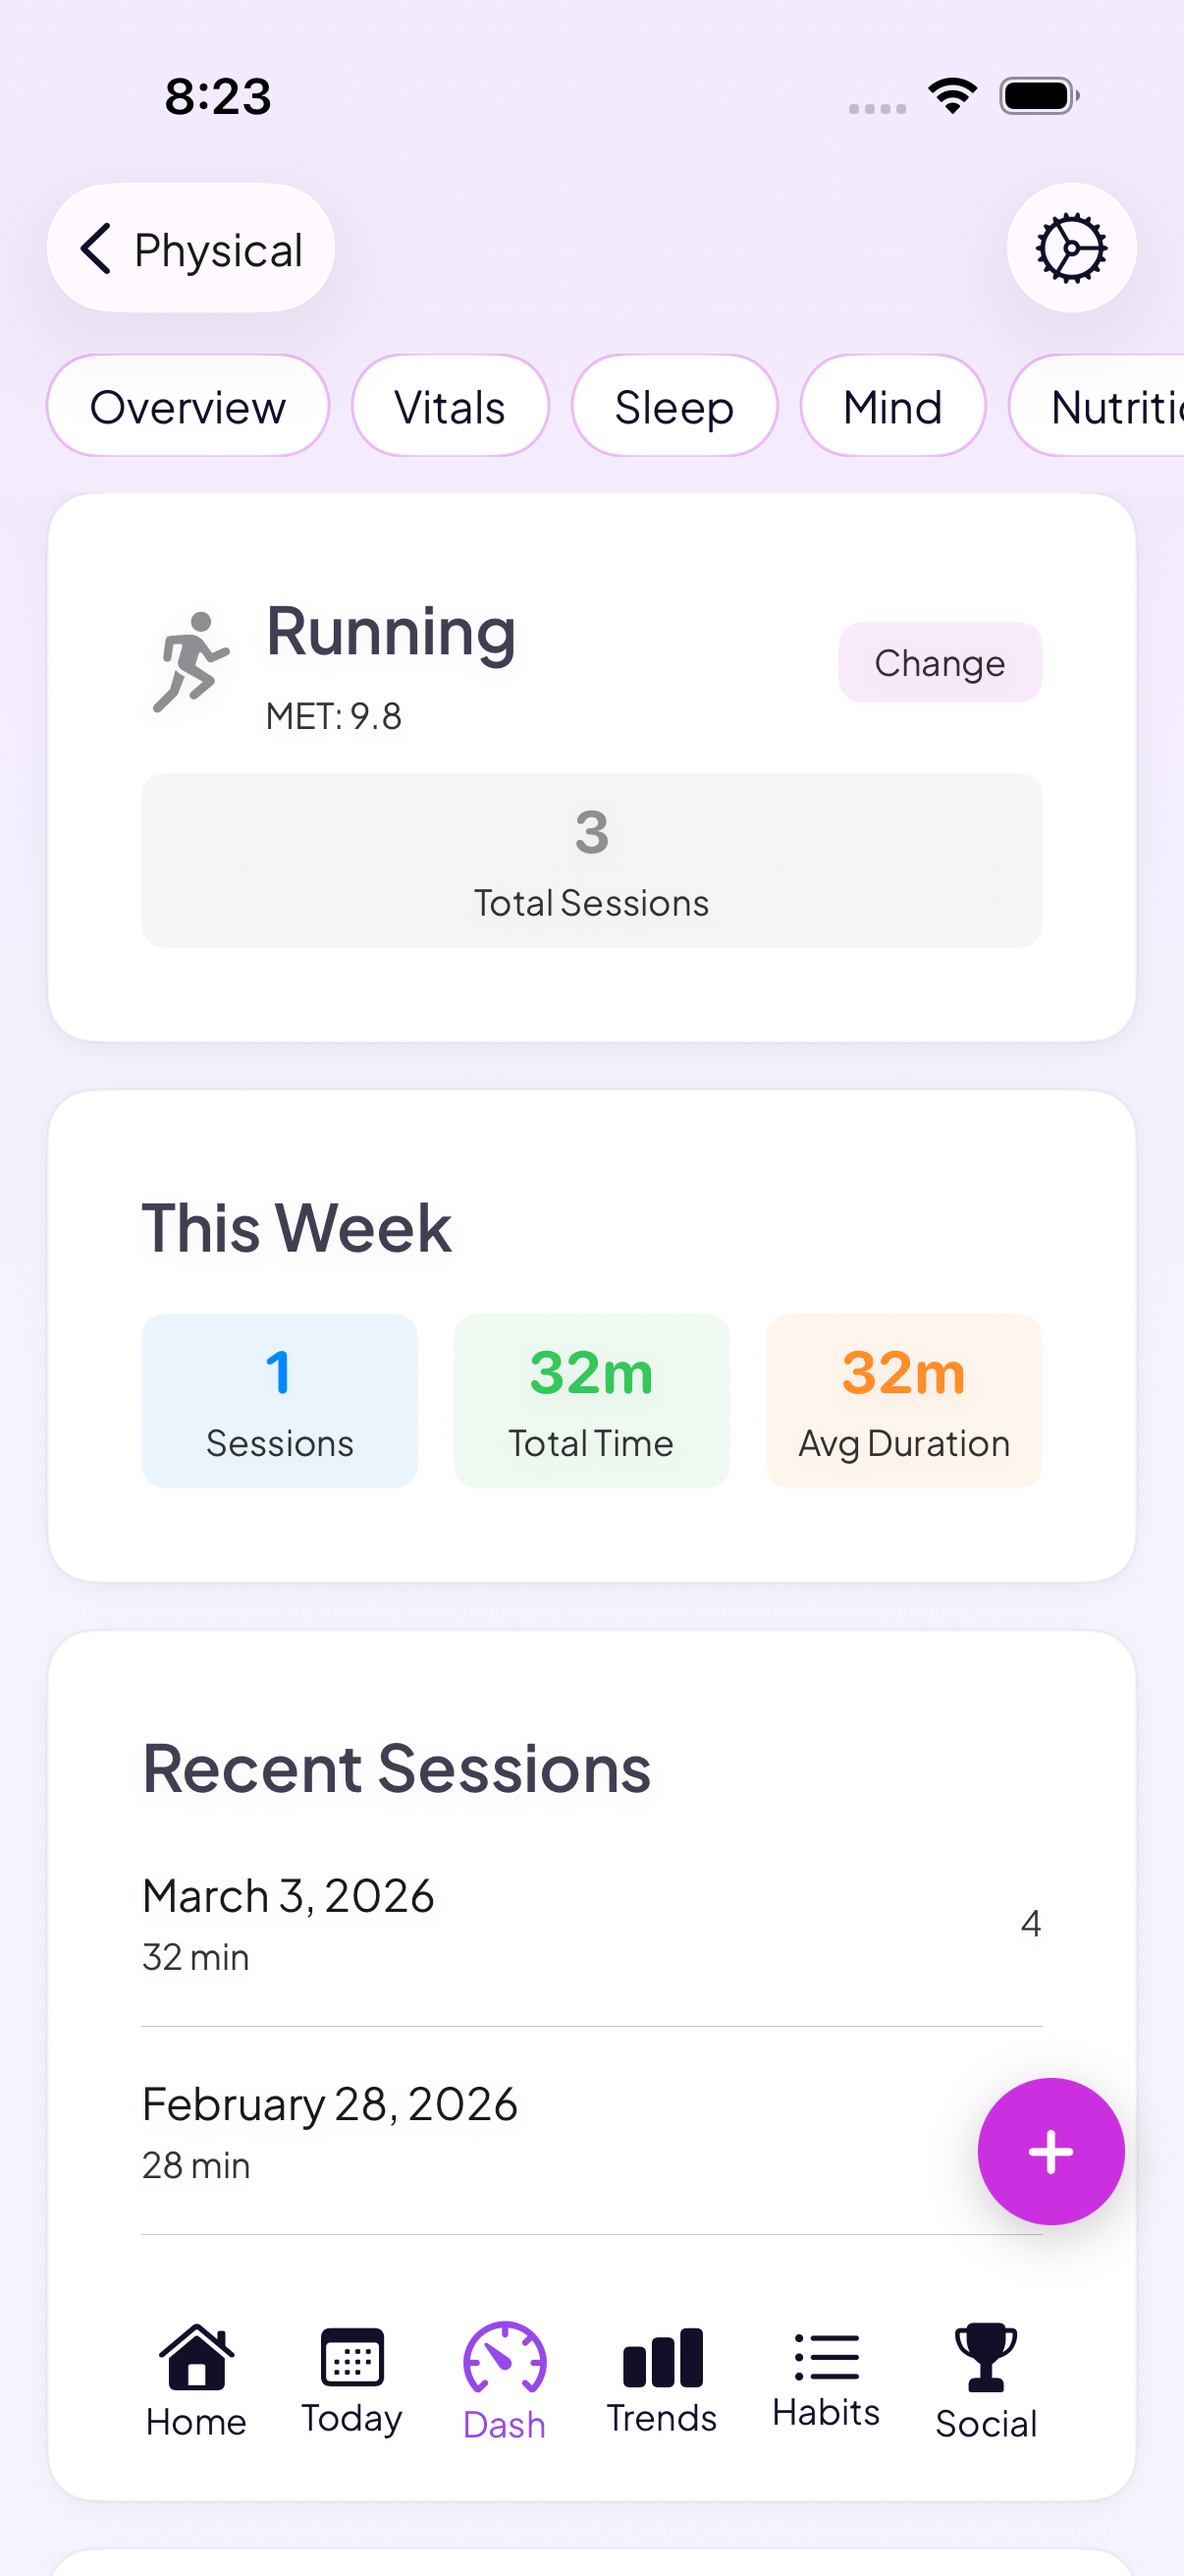
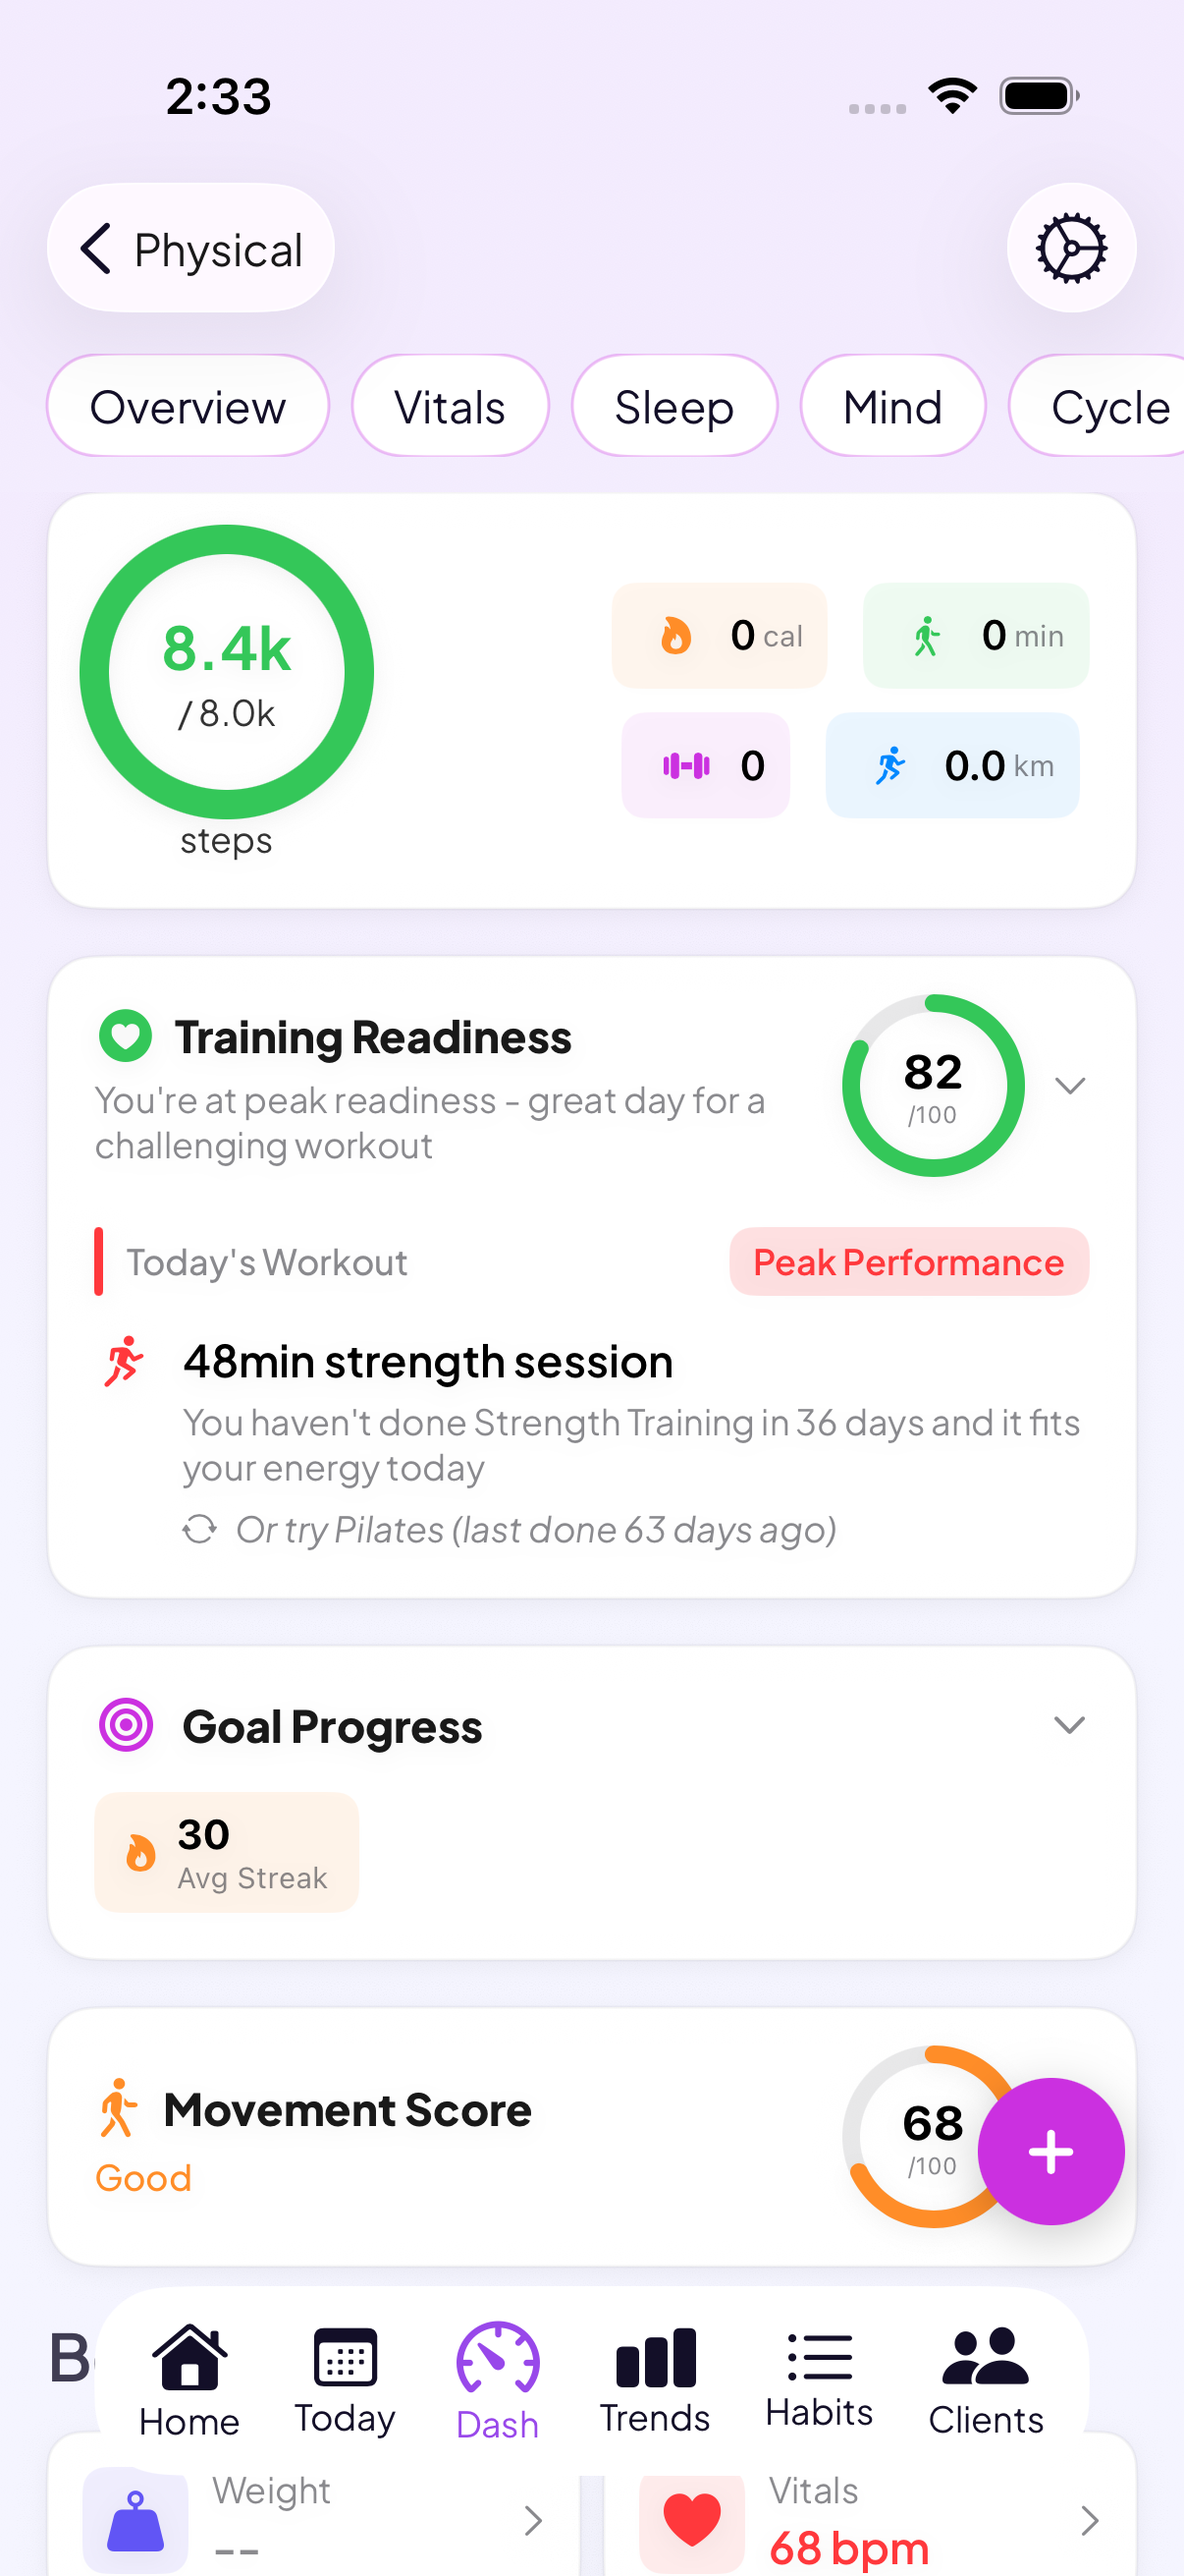
feat: refresh all app screenshots and add IVF persona card
Replace 16 screenshots with latest app UI featuring new nav bar,
populated data, and improved scores. Add new IVF & Fertility
Treatments persona card. Update alt text to match new content.

Key improvements:
- Overview: score 81 "Good progress" (was all zeros)
- Fitness: Training Readiness 82, Movement Score (was basic running view)
- Mind: populated mood tracking + journal (was all zeros)
- Today: fertile window badges, no notification banner
- Insights: "Whole Health improved by 6 points!" messaging
- New IVF persona with stage stepper (Prep→Stim→Retrieval→Transfer)

diff --git a/index.html b/index.html
@@ -102,7 +102,8 @@
         "https://www.go-go-gaia.com/images/app-overview.png",
         "https://www.go-go-gaia.com/images/app-fertility.png",
         "https://www.go-go-gaia.com/images/app-pcos.png",
-        "https://www.go-go-gaia.com/images/app-pregnancy.png"
+        "https://www.go-go-gaia.com/images/app-pregnancy.png",
+        "https://www.go-go-gaia.com/images/app-ivf-persona.png"
       ],
       "featureList": [
         "Easy, Flexible Logging",
@@ -393,8 +394,8 @@
                     <!-- Sticky phone on the left -->
                     <div class="scroll-story-phone">
                         <div class="phone-frame">
-                            <img src="images/app-today.png" class="phone-screen active" data-step="1" alt="Track your health with daily dashboard">
-                            <img src="images/app-cycle.png" class="phone-screen" data-step="2" alt="Discover cycle patterns and insights">
+                            <img src="images/app-today.png" class="phone-screen active" data-step="1" alt="Today view showing cycle phase, fertile window, health scores, and AI-powered predictions">
+                            <img src="images/app-cycle.png" class="phone-screen" data-step="2" alt="Cycle tracking with follicular phase details and ovulation countdown">
                             <img src="images/app-habits.png" class="phone-screen" data-step="3" alt="Habits dashboard showing completed daily habits, to-dos, and training programs">
                             <img src="images/app-social.png" class="phone-screen" data-step="4" alt="Social page with partner sharing, friends, and health professionals">
                         </div>
@@ -494,7 +495,7 @@
                     <div class="personas-scroll-track">
                         <div class="persona-card">
                             <div class="persona-card-thumb">
-                                <img src="images/app-cycle-persona.png" alt="Cycle tracking dashboard showing phase timeline and ovulation prediction" loading="lazy">
+                                <img src="images/app-cycle-persona.png" alt="Cycle and fertility dashboard with circular ovulation chart, phase tracking, and discharge logging" loading="lazy">
                             </div>
                             <div class="persona-card-body">
                                 <div class="persona-card-icon"><i class="bi bi-calendar-heart"></i></div>
@@ -505,13 +506,24 @@
                         </div>
                         <div class="persona-card">
                             <div class="persona-card-thumb">
-                                <img src="images/app-fertility-persona.png" alt="Fertility dashboard with fertile window countdown and ovulation tracking" loading="lazy">
+                                <img src="images/app-fertility-persona.png" alt="Fertility tracking today view showing 8 days until fertile window with AI symptom prediction" loading="lazy">
                             </div>
                             <div class="persona-card-body">
                                 <div class="persona-card-icon"><i class="bi bi-flower1"></i></div>
                                 <h3>Fertility Tracking</h3>
                                 <p>Pinpoint your fertile window with BBT, cervical mucus, and LH tracking. Compatible with IVF, IUI, and other fertility treatments.</p>
                                 <a href="blog/how-to-tell-if-youre-ovulating.html" class="blog-link">Recognize ovulation signs <i class="bi bi-arrow-right"></i></a>
+                            </div>
+                        </div>
+                        <div class="persona-card">
+                            <div class="persona-card-thumb">
+                                <img src="images/app-ivf-persona.png" alt="IVF journey dashboard with treatment stages, appointment tracking, and cycle management" loading="lazy">
+                            </div>
+                            <div class="persona-card-body">
+                                <div class="persona-card-icon"><i class="bi bi-clipboard2-pulse"></i></div>
+                                <h3>IVF & Fertility Treatments</h3>
+                                <p>Track your IVF journey stage by stage — from prep through stimulation, retrieval, and transfer. Log medications, appointments, and side effects all in one place.</p>
+                                <a href="blog/best-fertility-tracking-app.html" class="blog-link">Fertility tracking guide <i class="bi bi-arrow-right"></i></a>
                             </div>
                         </div>
                         <div class="persona-card">
@@ -538,7 +550,7 @@
                         </div>
                         <div class="persona-card">
                             <div class="persona-card-thumb">
-                                <img src="images/app-symptoms.png" alt="Symptom tracking dashboard with health score trends and priority concerns" loading="lazy">
+                                <img src="images/app-symptoms.png" alt="Symptom tracking dashboard with weekly health trend chart and priority health concerns" loading="lazy">
                             </div>
                             <div class="persona-card-body">
                                 <div class="persona-card-icon"><i class="bi bi-moon-stars"></i></div>
@@ -549,7 +561,7 @@
                         </div>
                         <div class="persona-card">
                             <div class="persona-card-thumb">
-                                <img src="images/app-mind.png" alt="Mind and wellness dashboard with mood tracking and mindfulness tools" loading="lazy">
+                                <img src="images/app-mind.png" alt="Mind and wellness dashboard with mental health scores, mood tracking, journal, and mindfulness tools" loading="lazy">
                             </div>
                             <div class="persona-card-body">
                                 <div class="persona-card-icon"><i class="bi bi-stars"></i></div>
@@ -560,7 +572,7 @@
                         </div>
                         <div class="persona-card">
                             <div class="persona-card-thumb">
-                                <img src="images/app-fitness.png" alt="Fitness dashboard with running stats, weekly sessions, and workout history" loading="lazy">
+                                <img src="images/app-fitness.png" alt="Fitness dashboard with Training Readiness score, workout suggestions, goal progress, and movement score" loading="lazy">
                             </div>
                             <div class="persona-card-body">
                                 <div class="persona-card-icon"><i class="bi bi-activity"></i></div>
